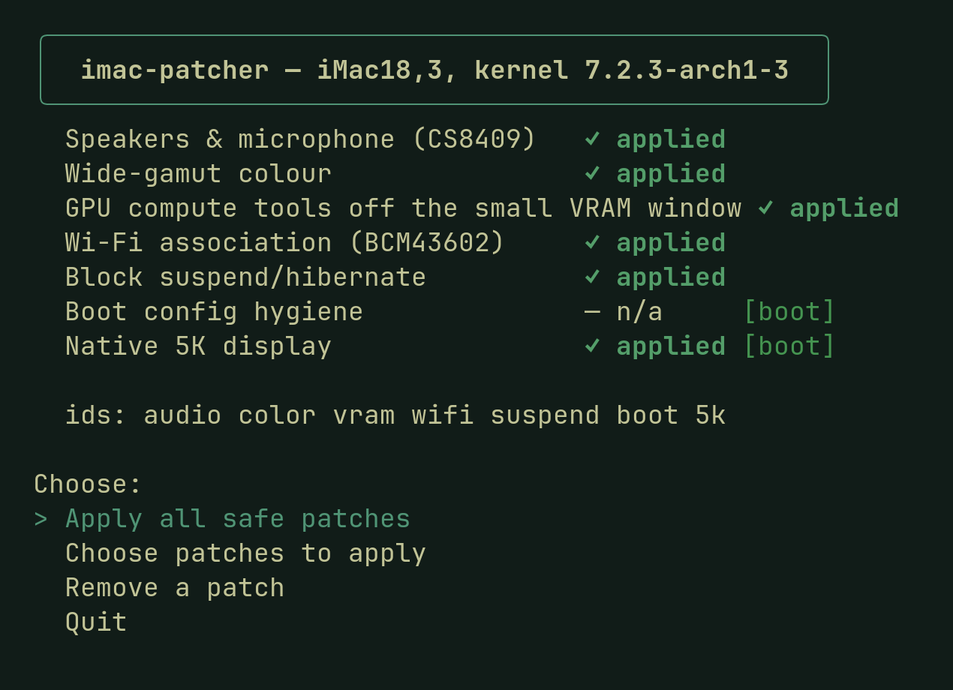
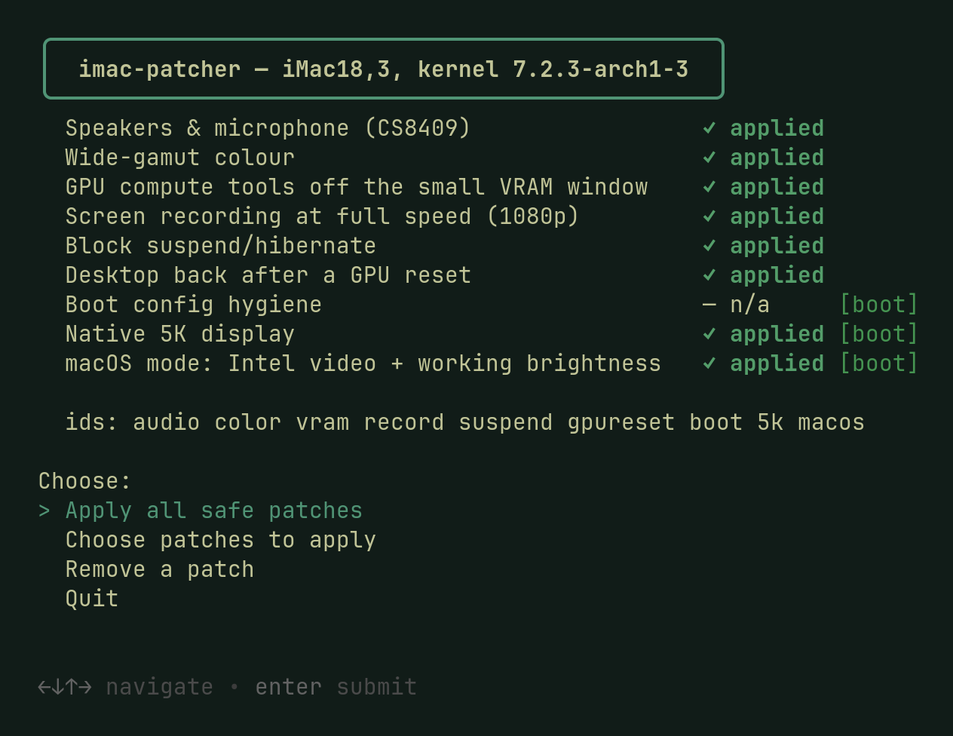
docs: current screenshots (all nine modules; both GPUs in fastfetch)

diff --git a/README.md b/README.md
@@ -47,7 +47,7 @@ The patcher on a fully set-up iMac18,3 — everything applied:
 
 …and what that gets you — `fastfetch` on the running 5K desktop:
 
-![fastfetch on the 5K desktop: 5120×2880 genlocked, patched amdgpu, CS8409 audio](docs/system-info.png)
+![fastfetch on the 5K desktop: 5120×2880, the Radeon and the Intel HD 630 both present](docs/system-info.png)
 
 ## ✅ Already fine out of the box
 
